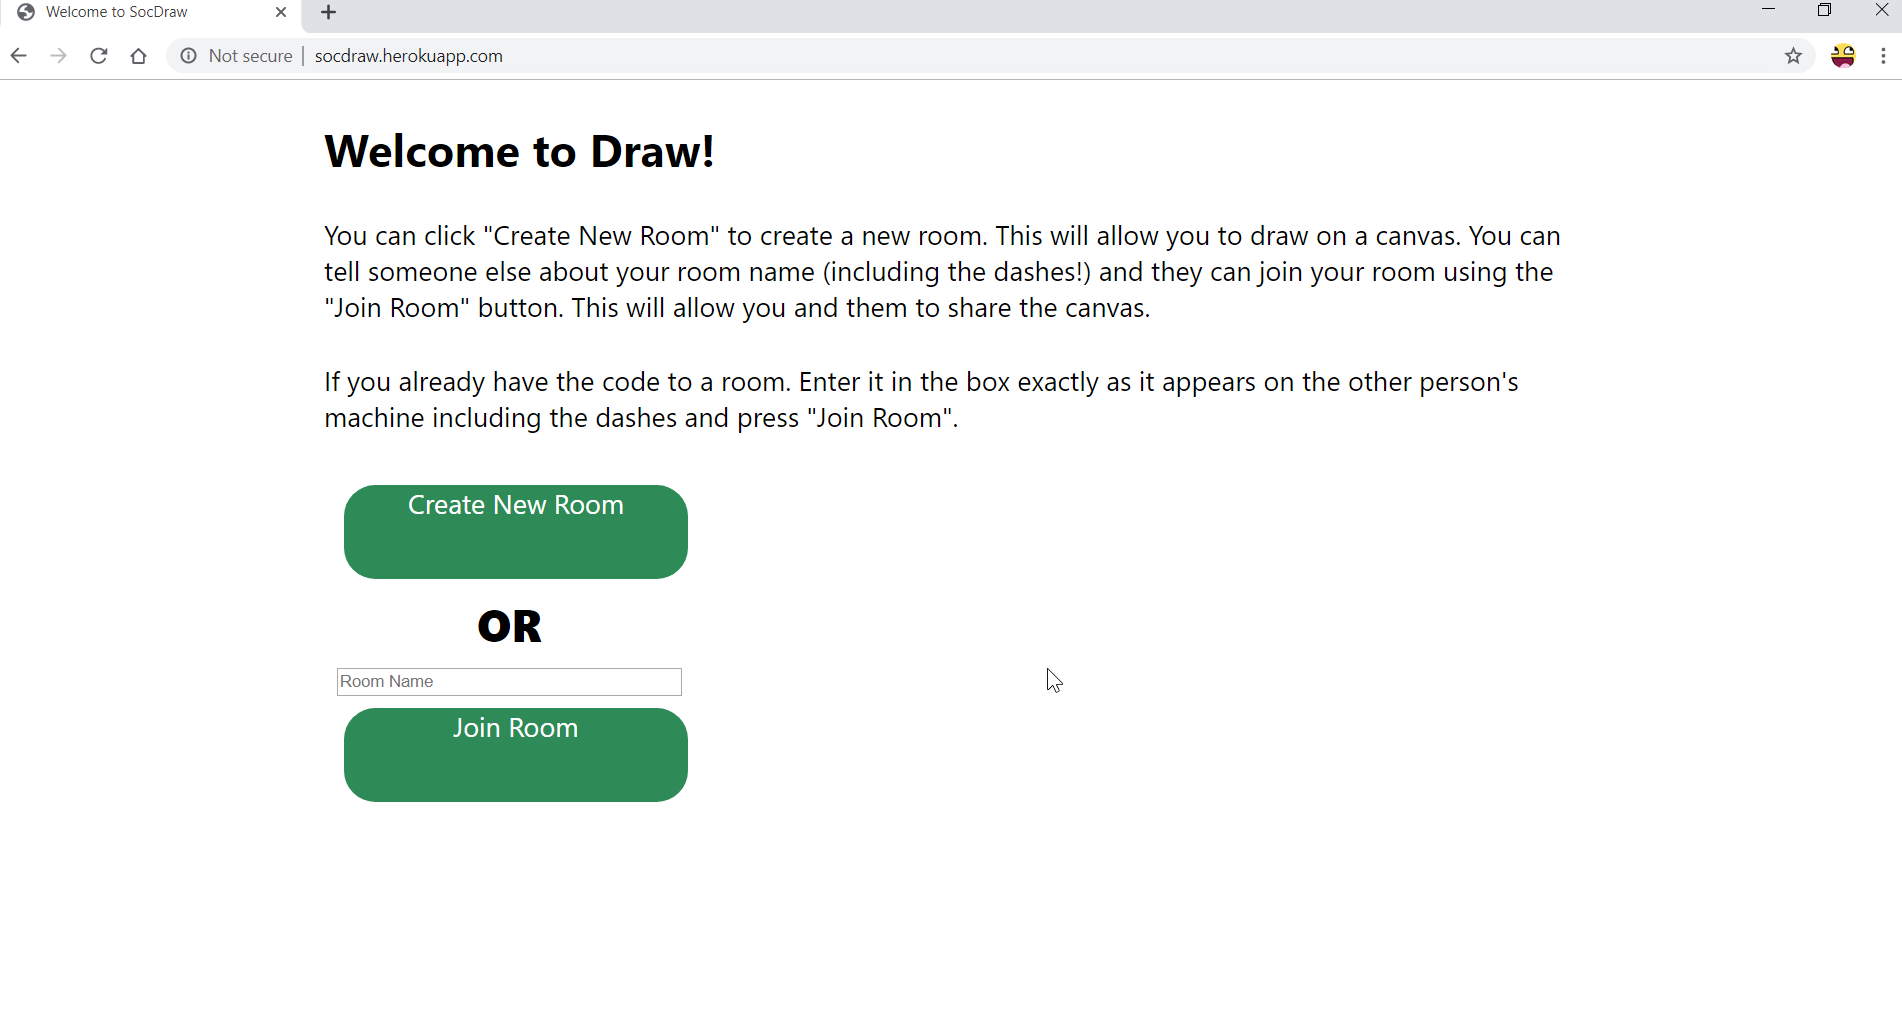
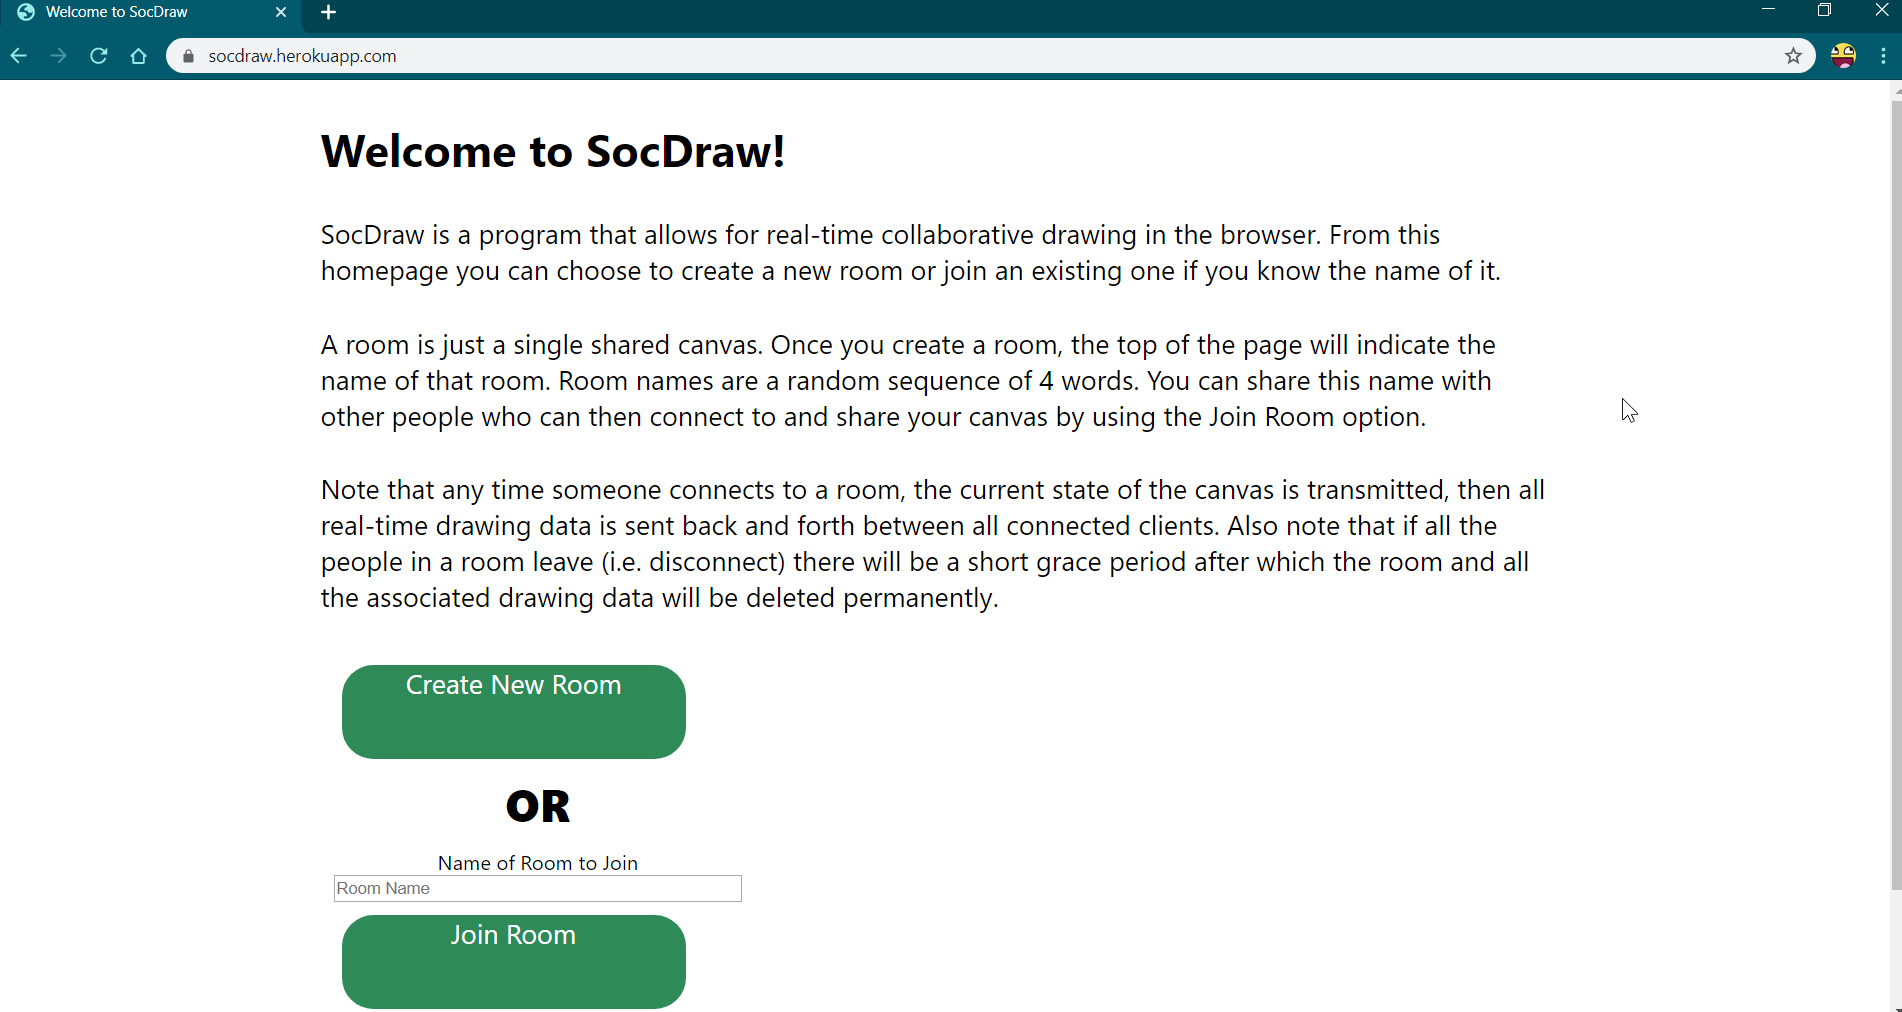
Added updated screenshots for SocDraw, made font bigger

diff --git a/css/common.css b/css/common.css
@@ -24,7 +24,7 @@ body {
 }
 
 body.home {
-  background-color: rgb(0, 0, 0);
+  background-color: rgb(24, 24, 24);
 }
 
 a:link {
@@ -50,7 +50,7 @@ a.buttonLink {
 }
 
 .button {
-  transition: opacity var(--my-button-fade-time) linear, transform 50ms linear !important;
+  transition: opacity var(--my-button-fade-time) linear, color 80ms linear, transform 80ms linear !important;
   text-decoration: none;
   margin-left: 1vw;
   margin-right: 1vw;
@@ -61,7 +61,7 @@ a.buttonLink {
   font-size: 3vw;
   height: 110px;
   font-family: var(--my-main-font), monospace;
-  background-color: rgb(0, 0, 0);
+  background-color: rgb(24, 24, 24);
   color: var(--my-green-color);
   width: 22vw;
   /* Center horizontally */
@@ -103,7 +103,7 @@ a.buttonLink {
 }
 
 .progPageDescription {
-  font-size: 1.2em;
+  font-size: 1.3em;
   color: white;
   font-family: var(--my-main-font), monospace;
   text-align: justify;

diff --git a/progproj.html b/progproj.html
@@ -79,6 +79,9 @@
       <p></p>
       <img width="50%" height="auto" src="/assets/projects/programming/SocDraw_head2.png"
         alt="Another screenshot of the duplicate file manager program." />
+      <p></p>
+      <img width="50%" height="auto" src="/assets/projects/programming/SocDraw_head3.png"
+        alt="Another screenshot of the duplicate file manager program." />
       <p class="projectDescription">
 
         SocDraw is a collaborative drawing application for real-time shared canvas
